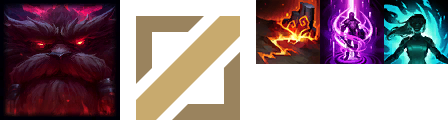
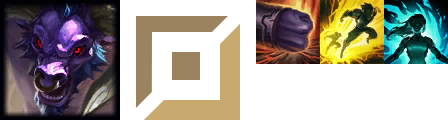
update runes embed

diff --git a/main.py b/main.py
@@ -238,20 +238,31 @@ async def UltimateBravery(interaction, role : str = "", gamemode : str = ""):
     Rune4 = random.choice(os.listdir(f"img/Runes/{MinorRune}/{SecondRune[0]}/"))
     Rune5 = random.choice(os.listdir(f"img/Runes/{MinorRune}/{SecondRune[1]}/"))
 
+    Adap1 = random.choice(os.listdir("img/Runes/Adaptive/Adap1/"))
+    Adap2 = random.choice(os.listdir("img/Runes/Adaptive/Adap2/"))
+    Adap3 = random.choice(os.listdir("img/Runes/Adaptive/Adap3/"))
+
     imageMajorRune = Image.open(f"img/Runes/{PrimaryRune}/Major/{MajorRune}")
     imageRune1 = Image.open(f"img/Runes/{PrimaryRune}/Rune1/{Rune1}")
     imageRune2 = Image.open(f"img/Runes/{PrimaryRune}/Rune2/{Rune2}")
     imageRune3 = Image.open(f"img/Runes/{PrimaryRune}/Rune3/{Rune3}")
     imageRune4 = Image.open(f"img/Runes/{MinorRune}/{SecondRune[0]}/{Rune4}")
     imageRune5 = Image.open(f"img/Runes/{MinorRune}/{SecondRune[1]}/{Rune5}")
+    imageAdap1 = Image.open(f"img/Runes/Adaptive/Adap1/{Adap1}")
+    imageAdap2 = Image.open(f"img/Runes/Adaptive/Adap2/{Adap2}")
+    imageAdap3 = Image.open(f"img/Runes/Adaptive/Adap3/{Adap3}")
 
-    imageRune = Image.new("RGBA", (imageMajorRune.width + imageRune1.width + imageRune4.width, imageMajorRune.height))
+    imageRune = Image.new("RGBA", (imageMajorRune.width + imageRune1.width + imageRune4.width + imageAdap1.width, imageMajorRune.height))
     imageRune.paste(imageMajorRune, (0,0))
     imageRune.paste(imageRune1, (imageMajorRune.width,0))
     imageRune.paste(imageRune2, (imageMajorRune.width, imageRune1.height))
     imageRune.paste(imageRune3, (imageMajorRune.width, imageRune1.height + imageRune2.height))
     imageRune.paste(imageRune4, (imageMajorRune.width + imageRune1.width, 0))
     imageRune.paste(imageRune5, (imageMajorRune.width + imageRune1.width, imageRune4.width))
+    imageRune.paste(imageAdap1, (imageMajorRune.width + imageRune1.width + imageRune4.width, 0))
+    imageRune.paste(imageAdap2, (imageMajorRune.width + imageRune1.width + imageRune4.width, imageAdap1.height))
+    imageRune.paste(imageAdap3, (imageMajorRune.width + imageRune1.width + imageRune4.width, imageAdap1.height*2))
+
     imageRune.save(f"img/tempo/rune.png")
 
     EmbedRunes = discord.Embed(title = "Runes", color = 0x00ff00)
